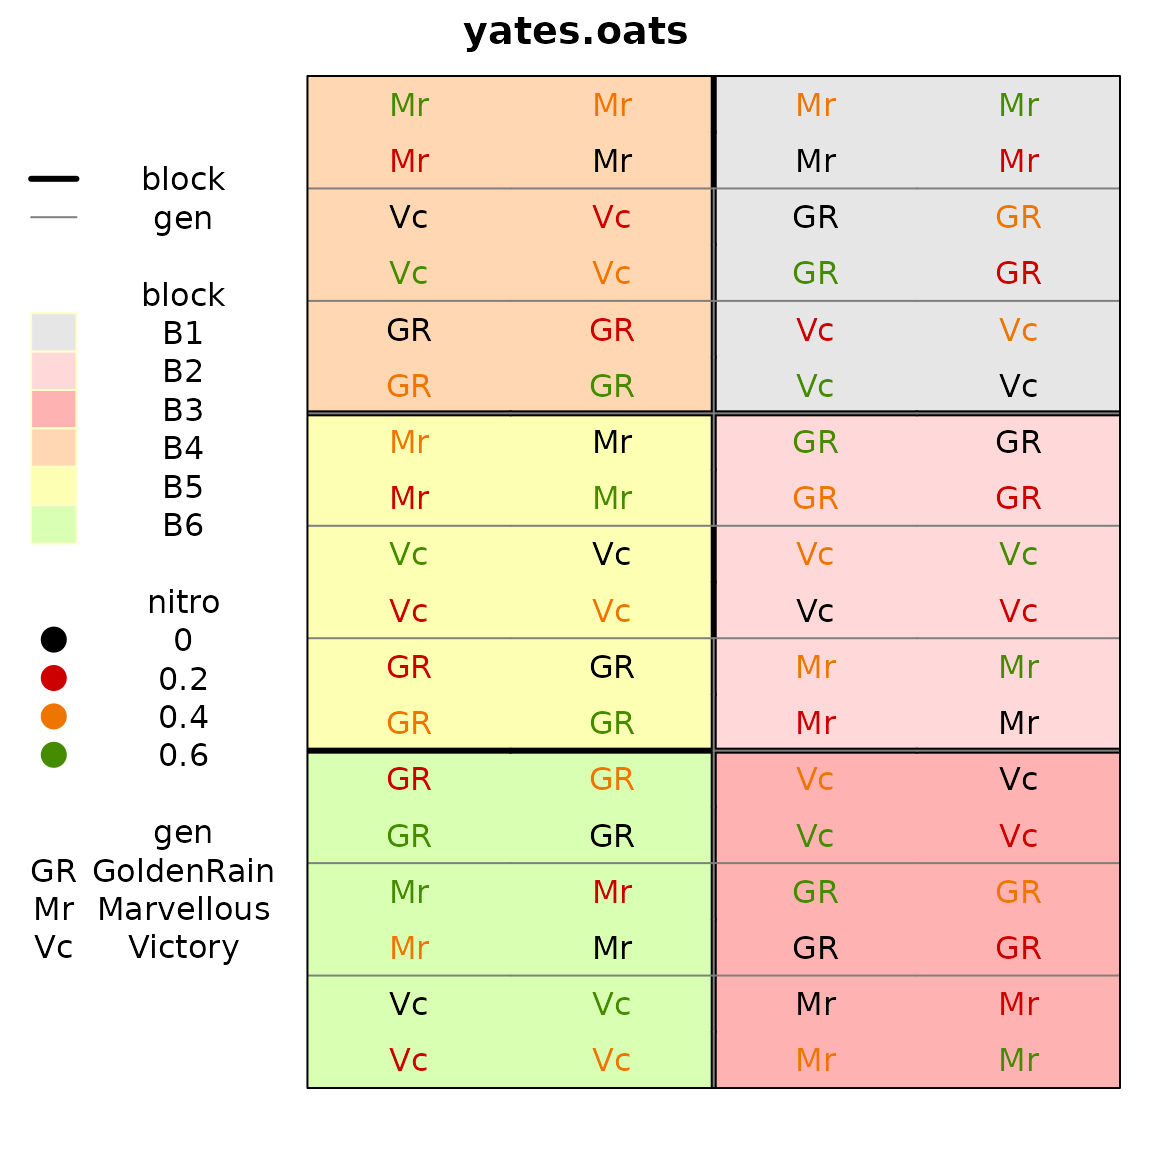
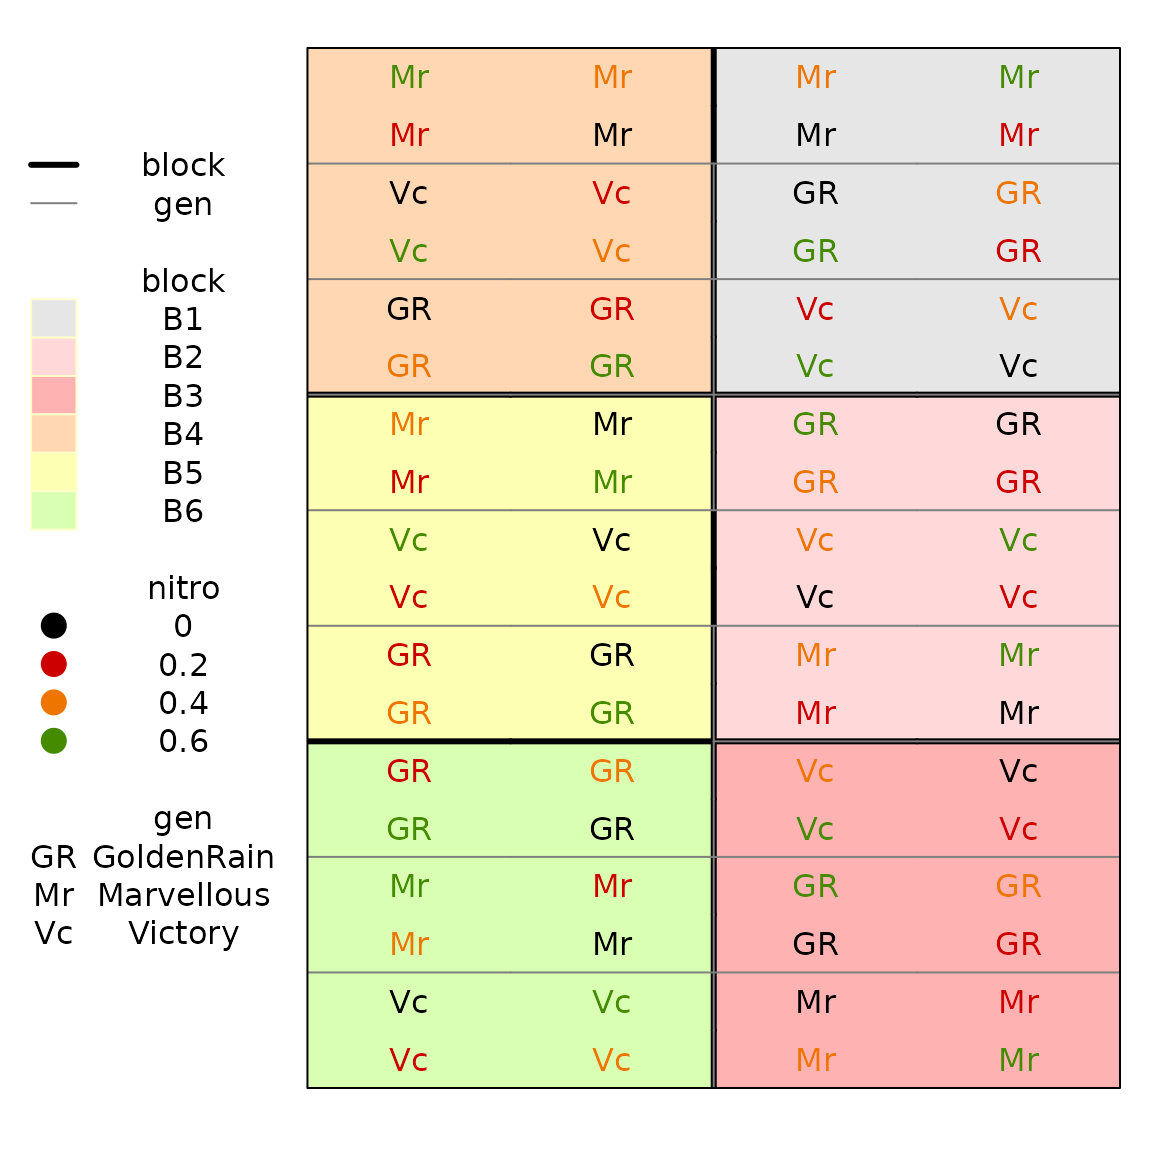
Deploying to gh-pages from @ kwstat/desplot@b18cfbb67be08b6a2879e281851676b714c18370 🚀

diff --git a/articles/desplot_examples.html b/articles/desplot_examples.html
@@ -59,7 +59,7 @@
                         <h4 data-toc-skip class="author">Kevin
 Wright</h4>
             
-            <h4 data-toc-skip class="date">2026-07-01</h4>
+            <h4 data-toc-skip class="date">2026-07-15</h4>
       
       <small class="dont-index">Source: <a href="https://github.com/kwstat/desplot/blob/main/vignettes/desplot_examples.Rmd" class="external-link"><code>vignettes/desplot_examples.Rmd</code></a></small>
       <div class="d-none name"><code>desplot_examples.Rmd</code></div>
@@ -161,7 +161,7 @@ the Royal Statistical Society Suppl</em> 2: 181–247. <a href="https://doi.org/
 </div>
 
 <div class="pkgdown-footer-right">
-  <p>Site built with <a href="https://pkgdown.r-lib.org/" class="external-link">pkgdown</a> 2.2.0.</p>
+  <p>Site built with <a href="https://pkgdown.r-lib.org/" class="external-link">pkgdown</a> 2.2.1.</p>
 </div>
 
     </footer>

diff --git a/news/index.html b/news/index.html
@@ -45,6 +45,7 @@
 <li><p>Fix the checking for multiple cell values when there are 2 panel factors.</p></li>
 <li><p>New support for <code>aspect</code> with <code><a href="../reference/desplot.html">ggdesplot()</a></code>. (P.Schmidt)</p></li>
 <li><p>New support for named colors (P.Schmidt).</p></li>
+<li><p>Deprecated syntax <code>desplot(formula,data)</code>.</p></li>
 </ul></div>
     <div class="section level2">
 <h2 class="pkg-version" data-toc-text="1.10" id="desplot-110-2023-03-01">desplot 1.10 (2023-03-01)<a class="anchor" aria-label="anchor" href="#desplot-110-2023-03-01"></a></h2><p class="text-muted">CRAN release: 2023-03-09</p>
@@ -103,7 +104,7 @@
 </div>
 
 <div class="pkgdown-footer-right">
-  <p>Site built with <a href="https://pkgdown.r-lib.org/" class="external-link">pkgdown</a> 2.2.0.</p>
+  <p>Site built with <a href="https://pkgdown.r-lib.org/" class="external-link">pkgdown</a> 2.2.1.</p>
 </div>
 
     </footer></div>

diff --git a/404.html b/404.html
@@ -67,7 +67,7 @@ Content not found. Please use links in the navbar.
 </div>
 
 <div class="pkgdown-footer-right">
-  <p>Site built with <a href="https://pkgdown.r-lib.org/" class="external-link">pkgdown</a> 2.2.0.</p>
+  <p>Site built with <a href="https://pkgdown.r-lib.org/" class="external-link">pkgdown</a> 2.2.1.</p>
 </div>
 
     </footer>

diff --git a/LICENSE-text.html b/LICENSE-text.html
@@ -47,7 +47,7 @@ COPYRIGHT HOLDER: desplot authors
 </div>
 
 <div class="pkgdown-footer-right">
-  <p>Site built with <a href="https://pkgdown.r-lib.org/" class="external-link">pkgdown</a> 2.2.0.</p>
+  <p>Site built with <a href="https://pkgdown.r-lib.org/" class="external-link">pkgdown</a> 2.2.1.</p>
 </div>
 
     </footer></div>

diff --git a/LICENSE.html b/LICENSE.html
@@ -51,7 +51,7 @@
 </div>
 
 <div class="pkgdown-footer-right">
-  <p>Site built with <a href="https://pkgdown.r-lib.org/" class="external-link">pkgdown</a> 2.2.0.</p>
+  <p>Site built with <a href="https://pkgdown.r-lib.org/" class="external-link">pkgdown</a> 2.2.1.</p>
 </div>
 
     </footer></div>

diff --git a/articles/index.html b/articles/index.html
@@ -49,7 +49,7 @@
 </div>
 
 <div class="pkgdown-footer-right">
-  <p>Site built with <a href="https://pkgdown.r-lib.org/" class="external-link">pkgdown</a> 2.2.0.</p>
+  <p>Site built with <a href="https://pkgdown.r-lib.org/" class="external-link">pkgdown</a> 2.2.1.</p>
 </div>
 
     </footer></div>

diff --git a/authors.html b/authors.html
@@ -73,7 +73,7 @@ R package version 1.11, <a href="https://kwstat.github.io/desplot/" class="exter
 </div>
 
 <div class="pkgdown-footer-right">
-  <p>Site built with <a href="https://pkgdown.r-lib.org/" class="external-link">pkgdown</a> 2.2.0.</p>
+  <p>Site built with <a href="https://pkgdown.r-lib.org/" class="external-link">pkgdown</a> 2.2.1.</p>
 </div>
 
     </footer></div>

diff --git a/index.html b/index.html
@@ -190,7 +190,7 @@
 </div>
 
 <div class="pkgdown-footer-right">
-  <p>Site built with <a href="https://pkgdown.r-lib.org/" class="external-link">pkgdown</a> 2.2.0.</p>
+  <p>Site built with <a href="https://pkgdown.r-lib.org/" class="external-link">pkgdown</a> 2.2.1.</p>
 </div>
 
     </footer>

diff --git a/reference/RedGrayBlue.html b/reference/RedGrayBlue.html
@@ -83,7 +83,7 @@
 </div>
 
 <div class="pkgdown-footer-right">
-  <p>Site built with <a href="https://pkgdown.r-lib.org/" class="external-link">pkgdown</a> 2.2.0.</p>
+  <p>Site built with <a href="https://pkgdown.r-lib.org/" class="external-link">pkgdown</a> 2.2.1.</p>
 </div>
 
     </footer></div>

diff --git a/reference/desplot.html b/reference/desplot.html
@@ -388,7 +388,7 @@ Field plans: why the biometrician finds them useful.
 </div>
 
 <div class="pkgdown-footer-right">
-  <p>Site built with <a href="https://pkgdown.r-lib.org/" class="external-link">pkgdown</a> 2.2.0.</p>
+  <p>Site built with <a href="https://pkgdown.r-lib.org/" class="external-link">pkgdown</a> 2.2.1.</p>
 </div>
 
     </footer></div>

diff --git a/reference/geom_tileborder.html b/reference/geom_tileborder.html
@@ -198,7 +198,7 @@ of `grp`, so we need to include `aes(group=1)`.</p>
 </div>
 
 <div class="pkgdown-footer-right">
-  <p>Site built with <a href="https://pkgdown.r-lib.org/" class="external-link">pkgdown</a> 2.2.0.</p>
+  <p>Site built with <a href="https://pkgdown.r-lib.org/" class="external-link">pkgdown</a> 2.2.1.</p>
 </div>
 
     </footer></div>

diff --git a/reference/index.html b/reference/index.html
@@ -80,7 +80,7 @@
 </div>
 
 <div class="pkgdown-footer-right">
-  <p>Site built with <a href="https://pkgdown.r-lib.org/" class="external-link">pkgdown</a> 2.2.0.</p>
+  <p>Site built with <a href="https://pkgdown.r-lib.org/" class="external-link">pkgdown</a> 2.2.1.</p>
 </div>
 
     </footer></div>